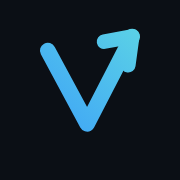
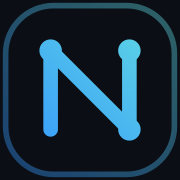
Rebrand VectorShip to Nexio
Swap brand name across metadata, copy, and JSON-LD (domain/email left as
vectorship.ai pending decision), and replace the checkmark logo mark with a
new N/nexus-node design consistently in the navbar SVG, favicons
(light/dark), apple touch icon, and OG/Twitter share images.

Changed region(s): [[0.1944, 0.1389, 0.8056, 0.8056], [0.0, 0.0, 1.0, 1.0]]

diff --git a/app/page.tsx b/app/page.tsx
@@ -6,4 +6,4 @@ import { processSteps, industries, marqueeTech, pillars, expertise, siteOverview
 
 function HeroMap() { return <div className="hero-map" aria-label="A visual map from problem to growth"><div className="map-grid" /><svg viewBox="0 0 600 390" preserveAspectRatio="none" aria-hidden="true"><path className="map-line" d="M70 300 C145 225 160 150 250 190 S345 290 405 218 S465 120 550 70" fill="none" stroke="var(--accent-cyan)" strokeOpacity=".7" strokeWidth="1.5" /><path className="map-line line-two" d="M50 95 C135 145 180 115 232 155 S325 245 390 182 S465 165 550 260" fill="none" stroke="var(--accent-blue)" strokeOpacity=".7" strokeWidth="1" strokeDasharray="4 7" /></svg>{[['PROBLEM',12,10,72],['DIRECTION',31,29,40],['ENGINEERING',49,49,61],['AI',68,67,47],['DEPLOY',86,84,18]].map(([name,p,left,top],i)=><div key={name} className={`map-node node-${i}`} style={{left:`${left}%`,top:`${top}%`}}><span className="node-dot" /><span className="node-label">{name}<small>{p}%</small></span></div>)}</div> }
 
-export default function Home() { return <SiteShell><main><section className="hero shell"><div className="hero-copy"><p className="eyebrow"><span className="pulse-dot" /> AI SOFTWARE DEVELOPMENT COMPANY</p><h1>We Don&apos;t Just Write Code.<br /><span>We Ship Solutions.</span></h1><p className="hero-lede">VectorShip is an AI software development company helping ambitious companies design, build, automate, and scale high-performance digital products—from custom web platforms and mobile applications to AI agents and intelligent automation.</p><div className="hero-cta-group mt-8 flex flex-wrap gap-3"><Link href="/contact" className="button-primary inline-flex min-h-12 items-center rounded-sm px-5 py-3">Schedule a Call <ArrowUpRight className="ml-2 size-4 shrink-0" /></Link><Link href="/services" className="button-secondary inline-flex min-h-12 items-center rounded-sm px-5 py-3">Explore Services</Link></div><p className="hero-trust"><Check /> Senior engineering <span>•</span> Direct communication <span>•</span> Fast iteration <span>•</span> Global delivery</p></div><HeroMap /></section><section className="trust-strip"><div className="shell grid gap-0 md:grid-cols-4">{[['Fast Execution','Rapid iteration and clear milestones'],['Senior Talent','Direct access to experienced engineers'],['Global Delivery','US/EU-friendly communication windows'],['Full Ownership','We own the problem through deployment']].map(([title,copy])=><div className="trust-item" key={title}><Zap className="size-6 shrink-0 text-accent" /><div><p>{title}</p><small>{copy}</small></div></div>)}</div></section><section className="section shell"><SectionHeading eyebrow="CAPABILITIES" title="AI automation, software engineering, and cloud development services." copy="We combine software engineering, AI development, automation, and product thinking to build technology that moves your business forward." /><Pillars items={pillars} /></section><section className="section shell"><SectionHeading eyebrow="OUR EXPERTISE" title="A senior engineering collective that builds in any technology." copy="We are a team of experienced developers spanning frontend, backend, mobile, AI, data, and infrastructure—so we can pick the right technology for your problem instead of forcing a single stack." /><div className="mt-12 grid gap-4 md:grid-cols-2 lg:grid-cols-3">{expertise.map(([title,copy])=><article className="profile-card" key={title}><h3>{title}</h3><p>{copy}</p></article>)}</div></section><section className="marquee-section"><p className="marquee-label">Tools &amp; platforms we build with</p><div className="marquee"><div className="marquee-track" aria-hidden="true">{[...marqueeTech, ...marqueeTech].map((t,i)=><span className="marquee-item" key={i}>{t}</span>)}</div></div></section><section className="section approach-section"><div className="shell"><SectionHeading eyebrow="OUR APPROACH" title="A software development process built to think clearly and ship quickly." /><div className="process-grid">{processSteps.map(([number,title,copy])=><article className="process-step" key={number}><span className="process-number">{number}</span><h3>{title}</h3><p>{copy}</p></article>)}</div><Link href="/approach" className="card-link">How We Work <ArrowUpRight className="size-4" /></Link></div></section><section className="section shell"><SectionHeading eyebrow="WHY VECTORSHIP" title="An AI and software development partner you don&apos;t need to micromanage." copy="Your team should be able to explain the outcome. Our team should own the execution." /><div className="mt-12 grid gap-x-8 gap-y-10 md:grid-cols-2">{[['Direct Communication','No unnecessary layers between you and the engineers doing the work.',Network],['Transparent Execution','Clear milestones, visible progress, honest timelines, and proactive communication.',ShieldCheck],['Fast Iteration','Short feedback loops designed to keep projects moving.',Rocket],['Long-Term Ownership','We do not disappear after deployment. We can continue to maintain, improve, and scale the system.',Sparkles]].map(([title,copy,Icon])=><article className="why-item" key={title as string}><Icon className="size-5 text-accent" /><div><h3>{title as string}</h3><p>{copy as string}</p></div></article>)}</div></section><section className="section approach-section"><div className="shell"><SectionHeading eyebrow="INDUSTRIES WE SERVE" title="Software and AI expertise across the industries we work in." copy="We adapt our engineering to the realities of your domain—from fintech compliance to healthcare data privacy and e-commerce scale." /><div className="mt-12 grid gap-4 md:grid-cols-2 lg:grid-cols-3">{industries.map(([title,copy],i)=><article className="profile-card" key={title}><span className="industry-number">{String(i+1).padStart(2,'0')}</span><h3>{title}</h3><p>{copy}</p></article>)}</div></div></section><section className="section shell"><SectionHeading eyebrow="EXPLORE VECTORSHIP" title="Everything else on this site, in one scroll." copy="A quick paraphrase of what lives on each page, so you can jump straight to what's relevant to you." /><div className="mt-12"><CardGrid items={siteOverview.map(item => ({ title: item.title, copy: item.copy, href: item.href, label: item.label, cta: item.cta }))} /></div></section><CTA /></main></SiteShell> }
+export default function Home() { return <SiteShell><main><section className="hero shell"><div className="hero-copy"><p className="eyebrow"><span className="pulse-dot" /> AI SOFTWARE DEVELOPMENT COMPANY</p><h1>We Don&apos;t Just Write Code.<br /><span>We Ship Solutions.</span></h1><p className="hero-lede">Nexio is an AI software development company helping ambitious companies design, build, automate, and scale high-performance digital products—from custom web platforms and mobile applications to AI agents and intelligent automation.</p><div className="hero-cta-group mt-8 flex flex-wrap gap-3"><Link href="/contact" className="button-primary inline-flex min-h-12 items-center rounded-sm px-5 py-3">Schedule a Call <ArrowUpRight className="ml-2 size-4 shrink-0" /></Link><Link href="/services" className="button-secondary inline-flex min-h-12 items-center rounded-sm px-5 py-3">Explore Services</Link></div><p className="hero-trust"><Check /> Senior engineering <span>•</span> Direct communication <span>•</span> Fast iteration <span>•</span> Global delivery</p></div><HeroMap /></section><section className="trust-strip"><div className="shell grid gap-0 md:grid-cols-4">{[['Fast Execution','Rapid iteration and clear milestones'],['Senior Talent','Direct access to experienced engineers'],['Global Delivery','US/EU-friendly communication windows'],['Full Ownership','We own the problem through deployment']].map(([title,copy])=><div className="trust-item" key={title}><Zap className="size-6 shrink-0 text-accent" /><div><p>{title}</p><small>{copy}</small></div></div>)}</div></section><section className="section shell"><SectionHeading eyebrow="CAPABILITIES" title="AI automation, software engineering, and cloud development services." copy="We combine software engineering, AI development, automation, and product thinking to build technology that moves your business forward." /><Pillars items={pillars} /></section><section className="section shell"><SectionHeading eyebrow="OUR EXPERTISE" title="A senior engineering collective that builds in any technology." copy="We are a team of experienced developers spanning frontend, backend, mobile, AI, data, and infrastructure—so we can pick the right technology for your problem instead of forcing a single stack." /><div className="mt-12 grid gap-4 md:grid-cols-2 lg:grid-cols-3">{expertise.map(([title,copy])=><article className="profile-card" key={title}><h3>{title}</h3><p>{copy}</p></article>)}</div></section><section className="marquee-section"><p className="marquee-label">Tools &amp; platforms we build with</p><div className="marquee"><div className="marquee-track" aria-hidden="true">{[...marqueeTech, ...marqueeTech].map((t,i)=><span className="marquee-item" key={i}>{t}</span>)}</div></div></section><section className="section approach-section"><div className="shell"><SectionHeading eyebrow="OUR APPROACH" title="A software development process built to think clearly and ship quickly." /><div className="process-grid">{processSteps.map(([number,title,copy])=><article className="process-step" key={number}><span className="process-number">{number}</span><h3>{title}</h3><p>{copy}</p></article>)}</div><Link href="/approach" className="card-link">How We Work <ArrowUpRight className="size-4" /></Link></div></section><section className="section shell"><SectionHeading eyebrow="WHY NEXIO" title="An AI and software development partner you don&apos;t need to micromanage." copy="Your team should be able to explain the outcome. Our team should own the execution." /><div className="mt-12 grid gap-x-8 gap-y-10 md:grid-cols-2">{[['Direct Communication','No unnecessary layers between you and the engineers doing the work.',Network],['Transparent Execution','Clear milestones, visible progress, honest timelines, and proactive communication.',ShieldCheck],['Fast Iteration','Short feedback loops designed to keep projects moving.',Rocket],['Long-Term Ownership','We do not disappear after deployment. We can continue to maintain, improve, and scale the system.',Sparkles]].map(([title,copy,Icon])=><article className="why-item" key={title as string}><Icon className="size-5 text-accent" /><div><h3>{title as string}</h3><p>{copy as string}</p></div></article>)}</div></section><section className="section approach-section"><div className="shell"><SectionHeading eyebrow="INDUSTRIES WE SERVE" title="Software and AI expertise across the industries we work in." copy="We adapt our engineering to the realities of your domain—from fintech compliance to healthcare data privacy and e-commerce scale." /><div className="mt-12 grid gap-4 md:grid-cols-2 lg:grid-cols-3">{industries.map(([title,copy],i)=><article className="profile-card" key={title}><span className="industry-number">{String(i+1).padStart(2,'0')}</span><h3>{title}</h3><p>{copy}</p></article>)}</div></div></section><section className="section shell"><SectionHeading eyebrow="EXPLORE NEXIO" title="Everything else on this site, in one scroll." copy="A quick paraphrase of what lives on each page, so you can jump straight to what's relevant to you." /><div className="mt-12"><CardGrid items={siteOverview.map(item => ({ title: item.title, copy: item.copy, href: item.href, label: item.label, cta: item.cta }))} /></div></section><CTA /></main></SiteShell> }

diff --git a/components/site.tsx b/components/site.tsx
@@ -9,7 +9,7 @@ export const navItems = [
   ['Services', '/services'], ['Solutions', '/solutions'], ['Recruitment', '/recruitment'], ['Approach', '/approach'], ['Work', '/work'], ['About', '/about'],
 ]
 
-export function Logo() { return <Link href="/" className="flex items-center gap-3" aria-label="VectorShip home"><svg className="logo-mark" width="34" height="34" viewBox="0 0 32 32" fill="none" aria-hidden="true"><defs><linearGradient id="vs-logo-g" x1="0" y1="32" x2="32" y2="0" gradientUnits="userSpaceOnUse"><stop offset="0" stopColor="#308DFF" /><stop offset="1" stopColor="#65E2E0" /></linearGradient></defs><rect x="1" y="1" width="30" height="30" rx="8.5" fill="#0d1219" stroke="url(#vs-logo-g)" strokeOpacity="0.4" /><path d="M8.5 9 L15.5 22 L23.5 6.5" stroke="url(#vs-logo-g)" strokeWidth="2.8" strokeLinecap="round" strokeLinejoin="round" /><path d="M18.5 7.4 L23.5 6.5 L22.8 11.6" fill="none" stroke="url(#vs-logo-g)" strokeWidth="2.6" strokeLinecap="round" strokeLinejoin="round" /></svg><span className="font-heading text-[19px] font-bold tracking-[-0.03em] text-foreground">VectorShip</span></Link> }
+export function Logo() { return <Link href="/" className="flex items-center gap-3" aria-label="Nexio home"><svg className="logo-mark" width="34" height="34" viewBox="0 0 32 32" fill="none" aria-hidden="true"><defs><linearGradient id="nx-logo-g" x1="0" y1="32" x2="32" y2="0" gradientUnits="userSpaceOnUse"><stop offset="0" stopColor="#308DFF" /><stop offset="1" stopColor="#65E2E0" /></linearGradient></defs><rect x="1" y="1" width="30" height="30" rx="8.5" fill="#0d1219" stroke="url(#nx-logo-g)" strokeOpacity="0.4" /><path d="M9 23 L9 9 L23 23 L23 9" fill="none" stroke="url(#nx-logo-g)" strokeWidth="2.6" strokeLinecap="round" strokeLinejoin="round" /><circle cx="9" cy="9" r="2" fill="url(#nx-logo-g)" /><circle cx="23" cy="23" r="2" fill="url(#nx-logo-g)" /><circle cx="23" cy="9" r="2" fill="url(#nx-logo-g)" /></svg><span className="font-heading text-[19px] font-bold tracking-[-0.03em] text-foreground">Nexio</span></Link> }
 
 export function Navbar() {
   const [open, setOpen] = useState(false)
@@ -45,7 +45,7 @@ function FooterAccordion({ title, links }: { title: string; links: [string, stri
   )
 }
 
-export function Footer() { return <footer className="footer"><div className="shell"><div className="grid gap-10 border-b border-border pb-10 md:grid-cols-[1.5fr_repeat(3,1fr)]"><div className="footer-brand"><Logo /><p className="mt-4 max-w-xs text-sm text-muted-foreground">Move fast. Ship better. Senior engineering for ambitious teams.</p></div><FooterAccordion title="Company" links={[['About', '/about'], ['Approach', '/approach'], ['Recruitment', '/recruitment'], ['Work', '/work'], ['Contact', '/contact']]} /><FooterAccordion title="Solutions" links={[['AI & Automation', '/solutions/ai-automation'], ['Software Engineering', '/solutions/software-engineering'], ['Mobile', '/solutions/mobile'], ['Cloud & DevOps', '/solutions/cloud-devops']]} /><div className="footer-col footer-connect"><p className="footer-label">Connect</p><a href="#" aria-label="LinkedIn placeholder" className="footer-link" onClick={e => e.preventDefault()}><span>LinkedIn</span><ArrowUpRight aria-hidden="true" /></a><a href="#" aria-label="GitHub placeholder" className="footer-link" onClick={e => e.preventDefault()}><span>GitHub</span><ArrowUpRight aria-hidden="true" /></a><a href="mailto:hello@vectorship.ai" className="footer-link"><span>Email</span><ArrowUpRight aria-hidden="true" /></a></div></div><div className="flex flex-col items-center gap-3 pt-6 text-center text-xs text-muted-foreground md:flex-row md:items-center md:justify-between md:text-left"><span>© 2026 VectorShip AI Solutions. All rights reserved.</span><span className="flex gap-5"><Link href="/privacy">Privacy Policy</Link><Link href="/terms">Terms of Service</Link></span></div></div></footer> }
+export function Footer() { return <footer className="footer"><div className="shell"><div className="grid gap-10 border-b border-border pb-10 md:grid-cols-[1.5fr_repeat(3,1fr)]"><div className="footer-brand"><Logo /><p className="mt-4 max-w-xs text-sm text-muted-foreground">Move fast. Ship better. Senior engineering for ambitious teams.</p></div><FooterAccordion title="Company" links={[['About', '/about'], ['Approach', '/approach'], ['Recruitment', '/recruitment'], ['Work', '/work'], ['Contact', '/contact']]} /><FooterAccordion title="Solutions" links={[['AI & Automation', '/solutions/ai-automation'], ['Software Engineering', '/solutions/software-engineering'], ['Mobile', '/solutions/mobile'], ['Cloud & DevOps', '/solutions/cloud-devops']]} /><div className="footer-col footer-connect"><p className="footer-label">Connect</p><a href="#" aria-label="LinkedIn placeholder" className="footer-link" onClick={e => e.preventDefault()}><span>LinkedIn</span><ArrowUpRight aria-hidden="true" /></a><a href="#" aria-label="GitHub placeholder" className="footer-link" onClick={e => e.preventDefault()}><span>GitHub</span><ArrowUpRight aria-hidden="true" /></a><a href="mailto:hello@vectorship.ai" className="footer-link"><span>Email</span><ArrowUpRight aria-hidden="true" /></a></div></div><div className="flex flex-col items-center gap-3 pt-6 text-center text-xs text-muted-foreground md:flex-row md:items-center md:justify-between md:text-left"><span>© 2026 Nexio AI Solutions. All rights reserved.</span><span className="flex gap-5"><Link href="/privacy">Privacy Policy</Link><Link href="/terms">Terms of Service</Link></span></div></div></footer> }
 
 export function SectionHeading({ eyebrow, title, copy }: { eyebrow: string; title: string; copy?: string }) { return <div className="max-w-3xl"><p className="eyebrow">{eyebrow}</p><h2 className="mt-4 text-balance text-3xl font-semibold tracking-[-0.045em] text-foreground sm:text-5xl">{title}</h2>{copy && <p className="mt-5 max-w-2xl text-pretty text-base leading-7 text-muted-foreground">{copy}</p>}</div> }
 

diff --git a/app/about/page.tsx b/app/about/page.tsx
@@ -1,4 +1,4 @@
 import { CTA, PageHero, SectionHeading, SiteShell } from '@/components/site'
 import { pageMetadata } from '@/lib/metadata'
-export const metadata=pageMetadata('About Our Software Development Company','VectorShip is a B2B software development and AI automation company helping ambitious teams design, build, and scale digital products.','/about')
-export default function About(){return <SiteShell><main><PageHero title="A software development company built to move your business forward." copy="VectorShip is a B2B software engineering and AI automation company helping ambitious teams design, build, automate, and scale digital products."/><section className="section shell"><div className="overlap-banner"><div><p className="eyebrow">WHO WE ARE</p><h2>A senior software engineering team for meaningful technical work.</h2><p>VectorShip is a collective of senior engineers spanning frontend, backend, mobile, AI, data, and DevOps—working with startups, growing companies, founders, and operations leaders who need custom software and AI agents to create momentum, not more complexity.</p></div><div className="overlap-stats"><div><strong>6</strong><span>DISCIPLINES</span><small>Frontend, backend, mobile, AI, data, and DevOps under one roof.</small></div><div><strong>0</strong><span>JUNIOR BENCH</span><small>Every project is staffed with the specialists it actually needs.</small></div><div><strong>Direct</strong><span>COMMUNICATION</span><small>You talk to the engineers doing the work, not account managers.</small></div><div><strong>Day 1</strong><span>OWNERSHIP</span><small>We take ownership from the first conversation through deployment.</small></div></div></div></section><section className="section shell"><SectionHeading eyebrow="WHAT WE BELIEVE" title="The values behind every software project we deliver."/><div className="mt-12 grid gap-4 md:grid-cols-3">{[['Ownership','We take responsibility for outcomes.'],['Clarity','We communicate directly and honestly.'],['Speed','We keep feedback loops short.'],['Craft','We care about engineering quality.'],['Practical Innovation','We use new technology when it creates real value.'],['Client Success','The outcome matters more than the code.']].map(([title,copy])=><article className="profile-card" key={title}><h3>{title}</h3><p>{copy}</p></article>)}</div></section><CTA /></main></SiteShell>}
+export const metadata=pageMetadata('About Our Software Development Company','Nexio is a B2B software development and AI automation company helping ambitious teams design, build, and scale digital products.','/about')
+export default function About(){return <SiteShell><main><PageHero title="A software development company built to move your business forward." copy="Nexio is a B2B software engineering and AI automation company helping ambitious teams design, build, automate, and scale digital products."/><section className="section shell"><div className="overlap-banner"><div><p className="eyebrow">WHO WE ARE</p><h2>A senior software engineering team for meaningful technical work.</h2><p>Nexio is a collective of senior engineers spanning frontend, backend, mobile, AI, data, and DevOps—working with startups, growing companies, founders, and operations leaders who need custom software and AI agents to create momentum, not more complexity.</p></div><div className="overlap-stats"><div><strong>6</strong><span>DISCIPLINES</span><small>Frontend, backend, mobile, AI, data, and DevOps under one roof.</small></div><div><strong>0</strong><span>JUNIOR BENCH</span><small>Every project is staffed with the specialists it actually needs.</small></div><div><strong>Direct</strong><span>COMMUNICATION</span><small>You talk to the engineers doing the work, not account managers.</small></div><div><strong>Day 1</strong><span>OWNERSHIP</span><small>We take ownership from the first conversation through deployment.</small></div></div></div></section><section className="section shell"><SectionHeading eyebrow="WHAT WE BELIEVE" title="The values behind every software project we deliver."/><div className="mt-12 grid gap-4 md:grid-cols-3">{[['Ownership','We take responsibility for outcomes.'],['Clarity','We communicate directly and honestly.'],['Speed','We keep feedback loops short.'],['Craft','We care about engineering quality.'],['Practical Innovation','We use new technology when it creates real value.'],['Client Success','The outcome matters more than the code.']].map(([title,copy])=><article className="profile-card" key={title}><h3>{title}</h3><p>{copy}</p></article>)}</div></section><CTA /></main></SiteShell>}

diff --git a/app/layout.tsx b/app/layout.tsx
@@ -8,12 +8,12 @@ import './globals.css'
 const spaceGrotesk = Space_Grotesk({ subsets: ['latin'], weight: ['500', '600', '700'], variable: '--font-space-grotesk' })
 
 export const metadata: Metadata = {
-  title: 'VectorShip AI Solutions | AI Software Development Company',
-  description: 'VectorShip is an AI software development company helping ambitious companies design, build, automate, and scale high-performance digital products.',
+  title: 'Nexio AI Solutions | AI Software Development Company',
+  description: 'Nexio is an AI software development company helping ambitious companies design, build, automate, and scale high-performance digital products.',
   metadataBase: new URL('https://vectorship.ai'),
   alternates: { canonical: 'https://vectorship.ai' },
-  openGraph: { title: 'VectorShip AI Solutions | AI Software Development Company', description: 'Senior engineering for AI automation, software, mobile, and cloud DevOps.', type: 'website', url: 'https://vectorship.ai', siteName: 'VectorShip AI Solutions' },
-  twitter: { card: 'summary_large_image', title: 'VectorShip AI Solutions | AI Software Development Company', description: 'Senior engineering for AI automation, software, mobile, and cloud DevOps.' },
+  openGraph: { title: 'Nexio AI Solutions | AI Software Development Company', description: 'Senior engineering for AI automation, software, mobile, and cloud DevOps.', type: 'website', url: 'https://vectorship.ai', siteName: 'Nexio AI Solutions' },
+  twitter: { card: 'summary_large_image', title: 'Nexio AI Solutions | AI Software Development Company', description: 'Senior engineering for AI automation, software, mobile, and cloud DevOps.' },
   icons: {
     icon: [
       { url: '/icon.svg', type: 'image/svg+xml' },
@@ -21,7 +21,7 @@ export const metadata: Metadata = {
     ],
     apple: '/apple-icon.png',
   },
-  generator: 'VectorShip AI Solutions',
+  generator: 'Nexio AI Solutions',
 }
 
 export const viewport: Viewport = {
@@ -36,10 +36,10 @@ const jsonLd = {
     {
       '@type': 'Organization',
       '@id': 'https://vectorship.ai/#organization',
-      name: 'VectorShip AI Solutions',
+      name: 'Nexio AI Solutions',
       url: 'https://vectorship.ai',
       logo: 'https://vectorship.ai/icon.svg',
-      description: 'VectorShip helps ambitious companies design, build, automate, and scale high-performance digital products with senior software engineering, AI automation, mobile, and cloud DevOps expertise.',
+      description: 'Nexio helps ambitious companies design, build, automate, and scale high-performance digital products with senior software engineering, AI automation, mobile, and cloud DevOps expertise.',
       email: 'hello@vectorship.ai',
       sameAs: [],
     },
@@ -47,13 +47,13 @@ const jsonLd = {
       '@type': 'WebSite',
       '@id': 'https://vectorship.ai/#website',
       url: 'https://vectorship.ai',
-      name: 'VectorShip AI Solutions',
+      name: 'Nexio AI Solutions',
       publisher: { '@id': 'https://vectorship.ai/#organization' },
     },
     {
       '@type': 'ProfessionalService',
       '@id': 'https://vectorship.ai/#service',
-      name: 'VectorShip AI Solutions',
+      name: 'Nexio AI Solutions',
       image: 'https://vectorship.ai/icon.svg',
       url: 'https://vectorship.ai',
       priceRange: '$$',

diff --git a/app/contact/page.tsx b/app/contact/page.tsx
@@ -2,5 +2,5 @@ import { ArrowUpRight, CalendarClock } from 'lucide-react'
 import { ContactForm } from '@/components/contact-form'
 import { PageHero, SiteShell } from '@/components/site'
 import { pageMetadata } from '@/lib/metadata'
-export const metadata=pageMetadata('Contact Our Software Development Team','Contact VectorShip to start a technical conversation about the software, AI, or automation project you are building.','/contact')
-export default function Contact(){return <SiteShell><main><PageHero title="Let&apos;s talk about the software you&apos;re building." copy="Tell us what you&apos;re trying to build, automate, improve, or solve. We&apos;ll come prepared to discuss the technical path forward."/><section className="section shell contact-grid"><div><p className="eyebrow">PROJECT INQUIRY</p><ContactForm /></div><aside className="booking-card"><p className="eyebrow">CALENDAR</p><h2>Technical Architecture Review</h2><strong>15 minutes</strong><p className="card-copy">A short conversation to understand your challenge and determine whether VectorShip is the right technical partner.</p><div className="calendar-placeholder"><CalendarClock className="size-5" aria-hidden="true" /><span>Live scheduling is on the way</span><small>Email us your best times and we&apos;ll confirm a slot within one business day.</small></div><a href="mailto:hello@vectorship.ai?subject=Architecture%20Review" className="button-primary mt-6 inline-flex min-h-12 w-full items-center justify-center rounded-sm py-3 text-center">Request a Time <ArrowUpRight className="ml-2 size-4 shrink-0" /></a></aside></section></main></SiteShell>}
+export const metadata=pageMetadata('Contact Our Software Development Team','Contact Nexio to start a technical conversation about the software, AI, or automation project you are building.','/contact')
+export default function Contact(){return <SiteShell><main><PageHero title="Let&apos;s talk about the software you&apos;re building." copy="Tell us what you&apos;re trying to build, automate, improve, or solve. We&apos;ll come prepared to discuss the technical path forward."/><section className="section shell contact-grid"><div><p className="eyebrow">PROJECT INQUIRY</p><ContactForm /></div><aside className="booking-card"><p className="eyebrow">CALENDAR</p><h2>Technical Architecture Review</h2><strong>15 minutes</strong><p className="card-copy">A short conversation to understand your challenge and determine whether Nexio is the right technical partner.</p><div className="calendar-placeholder"><CalendarClock className="size-5" aria-hidden="true" /><span>Live scheduling is on the way</span><small>Email us your best times and we&apos;ll confirm a slot within one business day.</small></div><a href="mailto:hello@vectorship.ai?subject=Architecture%20Review" className="button-primary mt-6 inline-flex min-h-12 w-full items-center justify-center rounded-sm py-3 text-center">Request a Time <ArrowUpRight className="ml-2 size-4 shrink-0" /></a></aside></section></main></SiteShell>}

diff --git a/lib/site-data.ts b/lib/site-data.ts
@@ -73,11 +73,11 @@ export const siteOverview = [
   { label: 'APPROACH', title: 'A delivery process built to stay honest.', copy: 'The five stages we run every engagement through, and how we keep communication clear along the way.', href: '/approach', cta: 'See our approach' },
   { label: 'WORK', title: 'The kinds of problems we take on.', copy: 'A look at the engagements we support while our public case study library comes together.', href: '/work', cta: 'See our work' },
   { label: 'RECRUITMENT', title: 'Need to grow your own team instead?', copy: 'How we help you hire vetted software, AI, and cloud talent—permanent, contract, or contract-to-hire.', href: '/recruitment', cta: 'See recruitment' },
-  { label: 'ABOUT', title: 'Who is actually behind the work.', copy: 'The team, the standards, and the reasoning behind how VectorShip operates as a partner.', href: '/about', cta: 'See about us' },
+  { label: 'ABOUT', title: 'Who is actually behind the work.', copy: 'The team, the standards, and the reasoning behind how Nexio operates as a partner.', href: '/about', cta: 'See about us' },
 ]
 
 export const serviceFaqs: [string, string][] = [
-  ['What does a software development company like VectorShip actually do?', 'We design, build, and scale custom software—web platforms, mobile apps, AI agents, data pipelines, and cloud infrastructure—for startups and growing companies that need a senior engineering partner.'],
+  ['What does a software development company like Nexio actually do?', 'We design, build, and scale custom software—web platforms, mobile apps, AI agents, data pipelines, and cloud infrastructure—for startups and growing companies that need a senior engineering partner.'],
   ['What technologies and programming languages do you work with?', 'A broad, modern stack: TypeScript, JavaScript, Python, Go, Rust, Java, Kotlin, and Swift, with frameworks like React, Next.js, Node.js, Django, and FastAPI. We choose the right tool for the problem rather than forcing a single stack.'],
   ['Do you specialize in AI agents and LLM applications?', 'Yes—AI agents are a core specialty. We build autonomous agents, multi-agent systems, RAG pipelines, copilots, and tool-using agents on OpenAI, Anthropic, and open-source models, with evaluation, guardrails, and observability built in.'],
   ['How large is your engineering team, and how do you staff projects?', 'We are a collective of senior engineers across frontend, backend, mobile, AI, data, and DevOps. We staff each project with the specific specialists it needs—no junior bench, no unnecessary layers.'],

diff --git a/app/work/page.tsx b/app/work/page.tsx
@@ -1,4 +1,4 @@
 import { CTA, PageHero, SectionHeading, SiteShell } from '@/components/site'
 import { pageMetadata } from '@/lib/metadata'
-export const metadata=pageMetadata('Software Development Case Studies & Work','Examples of the AI, software, and mobile systems VectorShip builds for ambitious teams, with detailed case studies coming soon.','/work')
+export const metadata=pageMetadata('Software Development Case Studies & Work','Examples of the AI, software, and mobile systems Nexio builds for ambitious teams, with detailed case studies coming soon.','/work')
 export default function Work(){return <SiteShell><main><PageHero title="Serious software systems for ambitious teams." copy="We are building a portfolio of software development case studies that show the problems, decisions, and outcomes behind the work. Until then, here are the kinds of engagements we support."/><section className="section shell"><SectionHeading eyebrow="CASE STUDIES COMING SOON" title="Clear about what is known—and what is not."/><div className="mt-12 grid gap-4 lg:grid-cols-3">{[['AI Operations Platform','Manual operational workflows.','AI-powered workflow automation.','LLMs · Agents · APIs · Cloud'],['Scalable SaaS Platform','A product ready for a stronger technical foundation.','Modern cloud-based product architecture.','React · TypeScript · Node.js · PostgreSQL'],['Mobile Product Ecosystem','A mobile experience connected to complex services.','Cross-platform product and API integration.','React Native · APIs · Auth · Deployment']].map(([title,problem,solution,technology])=><article className="case-card" key={title}><div className="case-visual"><span>CASE STUDY<br/>COMING SOON</span></div><h3>{title}</h3><p><strong>Problem:</strong> {problem}</p><p><strong>Solution:</strong> {solution}</p><p><strong>Technology:</strong> {technology}</p><span className="status-label">Status: Case study coming soon</span></article>)}</div></section><CTA /></main></SiteShell>}

diff --git a/app/recruitment/page.tsx b/app/recruitment/page.tsx
@@ -7,7 +7,7 @@ import { pageMetadata } from '@/lib/metadata'
 
 export const metadata = pageMetadata(
   'Tech Recruitment & IT Staffing',
-  'VectorShip Talent places senior software, AI, cloud, product, and leadership talent through permanent, contract, and contract-to-hire staffing—vetted by engineers.',
+  'Nexio Talent places senior software, AI, cloud, product, and leadership talent through permanent, contract, and contract-to-hire staffing—vetted by engineers.',
   '/recruitment',
 )
 
@@ -73,7 +73,7 @@ export default function Recruitment() {
 
         <section className="section approach-section">
           <div className="shell">
-            <SectionHeading eyebrow="WHY VECTORSHIP TALENT" title="A recruitment partner that understands the work you're hiring for." copy="We build software ourselves. That means we know what great engineers look like—and we screen for it." />
+            <SectionHeading eyebrow="WHY NEXIO TALENT" title="A recruitment partner that understands the work you're hiring for." copy="We build software ourselves. That means we know what great engineers look like—and we screen for it." />
             <div className="mt-12 grid gap-x-8 gap-y-10 md:grid-cols-2">
               {whyPartner.map(([title, copy, Icon]) => (
                 <article className="why-item" key={title}>
@@ -103,7 +103,7 @@ export default function Recruitment() {
 
         <section className="section approach-section">
           <div className="shell">
-            <SectionHeading eyebrow="FAQ" title="Common questions about hiring through VectorShip Talent." />
+            <SectionHeading eyebrow="FAQ" title="Common questions about hiring through Nexio Talent." />
             <Faq items={recruitmentFaqs} />
           </div>
         </section>

diff --git a/app/opengraph-image.tsx b/app/opengraph-image.tsx
@@ -1,6 +1,6 @@
 import { ImageResponse } from 'next/og'
 
-export const alt = 'VectorShip AI Solutions — AI, Software & Automation'
+export const alt = 'Nexio AI Solutions — AI, Software & Automation'
 export const size = { width: 1200, height: 630 }
 export const contentType = 'image/png'
 
@@ -30,16 +30,14 @@ export default async function Image() {
           }}
         />
         <div style={{ display: 'flex', alignItems: 'center', gap: 16, position: 'relative' }}>
-          <div
-            style={{
-              width: 40,
-              height: 40,
-              border: '2px solid #65e2e0',
-              transform: 'rotate(45deg)',
-              display: 'flex',
-            }}
-          />
-          <span style={{ fontSize: 32, fontWeight: 700, color: '#f4f7fb', letterSpacing: '-0.02em' }}>VectorShip</span>
+          <svg width="40" height="40" viewBox="0 0 32 32" fill="none">
+            <rect x="1" y="1" width="30" height="30" rx="8.5" fill="#0d1219" stroke="#65e2e0" strokeOpacity="0.5" />
+            <path d="M9 23 L9 9 L23 23 L23 9" fill="none" stroke="#65e2e0" strokeWidth="2.6" strokeLinecap="round" strokeLinejoin="round" />
+            <circle cx="9" cy="9" r="2" fill="#65e2e0" />
+            <circle cx="23" cy="23" r="2" fill="#65e2e0" />
+            <circle cx="23" cy="9" r="2" fill="#65e2e0" />
+          </svg>
+          <span style={{ fontSize: 32, fontWeight: 700, color: '#f4f7fb', letterSpacing: '-0.02em' }}>Nexio</span>
         </div>
         <div
           style={{

diff --git a/app/twitter-image.tsx b/app/twitter-image.tsx
@@ -1,6 +1,6 @@
 import { ImageResponse } from 'next/og'
 
-export const alt = 'VectorShip AI Solutions — AI, Software & Automation'
+export const alt = 'Nexio AI Solutions — AI, Software & Automation'
 export const size = { width: 1200, height: 630 }
 export const contentType = 'image/png'
 
@@ -30,16 +30,14 @@ export default async function Image() {
           }}
         />
         <div style={{ display: 'flex', alignItems: 'center', gap: 16, position: 'relative' }}>
-          <div
-            style={{
-              width: 40,
-              height: 40,
-              border: '2px solid #65e2e0',
-              transform: 'rotate(45deg)',
-              display: 'flex',
-            }}
-          />
-          <span style={{ fontSize: 32, fontWeight: 700, color: '#f4f7fb', letterSpacing: '-0.02em' }}>VectorShip</span>
+          <svg width="40" height="40" viewBox="0 0 32 32" fill="none">
+            <rect x="1" y="1" width="30" height="30" rx="8.5" fill="#0d1219" stroke="#65e2e0" strokeOpacity="0.5" />
+            <path d="M9 23 L9 9 L23 23 L23 9" fill="none" stroke="#65e2e0" strokeWidth="2.6" strokeLinecap="round" strokeLinejoin="round" />
+            <circle cx="9" cy="9" r="2" fill="#65e2e0" />
+            <circle cx="23" cy="23" r="2" fill="#65e2e0" />
+            <circle cx="23" cy="9" r="2" fill="#65e2e0" />
+          </svg>
+          <span style={{ fontSize: 32, fontWeight: 700, color: '#f4f7fb', letterSpacing: '-0.02em' }}>Nexio</span>
         </div>
         <div
           style={{

diff --git a/app/terms/page.tsx b/app/terms/page.tsx
@@ -1,8 +1,8 @@
 import { pageMetadata } from '@/lib/metadata'
 import { PageHero, SiteShell } from '@/components/site'
-export const metadata=pageMetadata('Terms of Service','Placeholder terms of service for VectorShip AI Solutions, pending legal review.','/terms')
+export const metadata=pageMetadata('Terms of Service','Placeholder terms of service for Nexio AI Solutions, pending legal review.','/terms')
 const sections: [string, string][] = [
-  ['Use of this website','This website provides general information about VectorShip AI Solutions and is not a binding statement of scope, pricing, or deliverables.'],
+  ['Use of this website','This website provides general information about Nexio AI Solutions and is not a binding statement of scope, pricing, or deliverables.'],
   ['Project agreements','Services, deliverables, intellectual property, confidentiality, payment, and support terms should be defined in a written agreement for each engagement.'],
   ['Content accuracy','We aim to keep the site clear and current, but content may change as the company and its services evolve.'],
   ['Legal review required','This is not legal advice or a final terms document. Replace this content before publishing.'],

diff --git a/app/solutions/[slug]/page.tsx b/app/solutions/[slug]/page.tsx
@@ -118,7 +118,7 @@ export async function generateStaticParams() {
 export async function generateMetadata({ params }: { params: Promise<{ slug: string }> }) {
   const { slug } = await params
   const item = data[slug]
-  if (!item) return pageMetadata('Solutions', 'VectorShip solution capabilities and engineering services.', '/solutions/' + slug)
+  if (!item) return pageMetadata('Solutions', 'Nexio solution capabilities and engineering services.', '/solutions/' + slug)
   return pageMetadata(item.seoTitle, item.seoDescription, '/solutions/' + slug)
 }
 
@@ -131,7 +131,7 @@ export default async function SolutionDetail({ params }: { params: Promise<{ slu
     name: item.seoTitle,
     description: item.seoDescription,
     serviceType: item.seoTitle,
-    provider: { '@type': 'Organization', name: 'VectorShip AI Solutions', url: 'https://vectorship.ai' },
+    provider: { '@type': 'Organization', name: 'Nexio AI Solutions', url: 'https://vectorship.ai' },
     areaServed: 'Worldwide',
     url: `https://vectorship.ai/solutions/${slug}`,
     hasOfferCatalog: {
